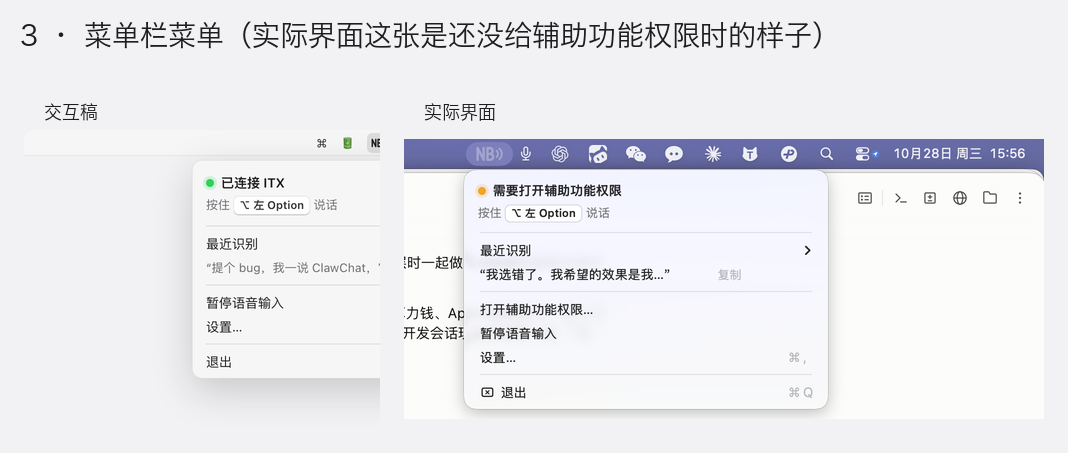
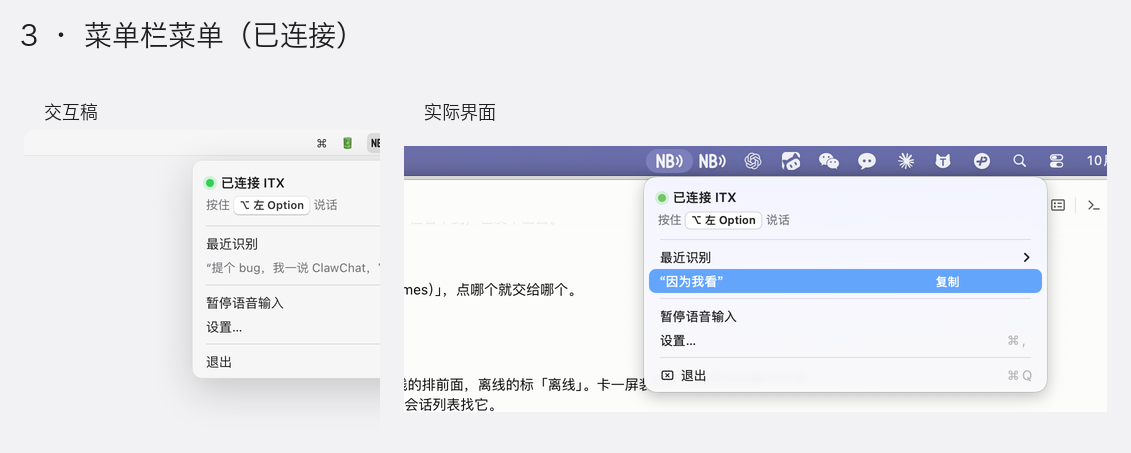
补菜单「已连接」状态的截图（截图用的 demo 有权限就算热键装好），对照图里热词页换成文本框

diff --git a/client-mac/Sources/AppController.swift b/client-mac/Sources/AppController.swift
@@ -458,7 +458,9 @@ final class AppController: NSObject, NSApplicationDelegate, SettingsHost {
     private func refreshStatus() {
         guard let menuBar else { return }
         var st = MenuBar.State()
-        st.status = hotkey.paused ? .paused : !hotkey.installed ? .needsAccess : client.connected ? .ready
+        // 截图用的那份不装热键（免得和正在用的那份抢），有权限就当装好了
+        let hotkeyReady = hotkey.installed || (demo != nil && AXIsProcessTrusted())
+        st.status = hotkey.paused ? .paused : !hotkeyReady ? .needsAccess : client.connected ? .ready
             : localNetworkBlocked ? .noLocalNetwork : .offline
         st.recording = phase == .recording || phase == .finishing
         st.thinking = !releasedAt.isEmpty
